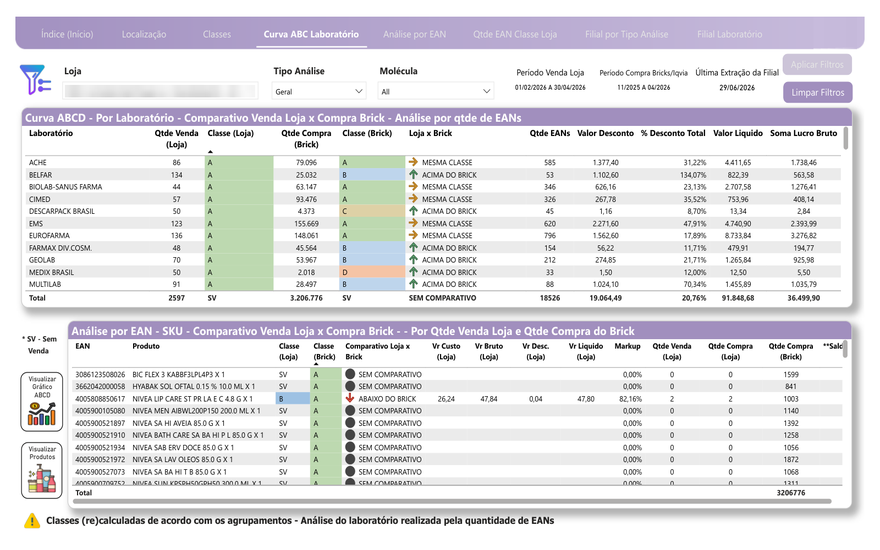
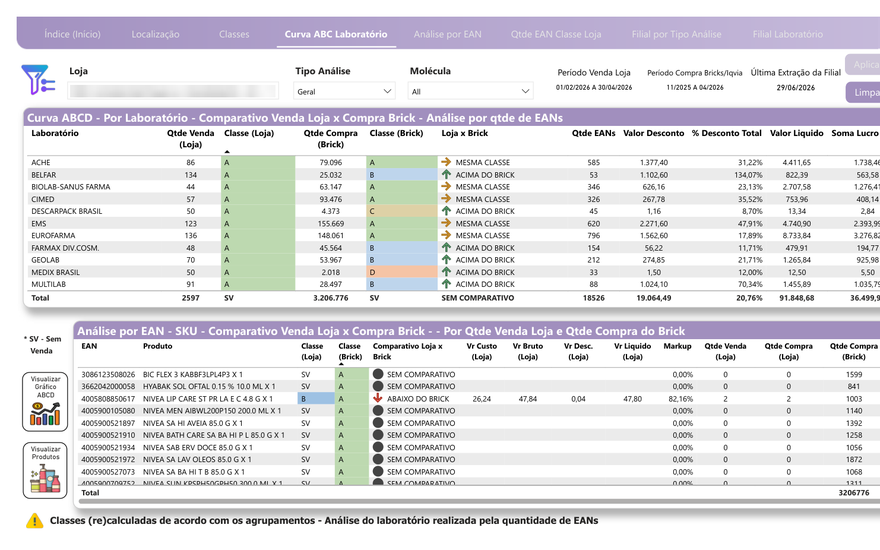
Adiciona o painel de cinco telas e corrige a capa esticada
Projeto novo: a aplicacao que reune cinco paineis Power BI de uma
distribuidora em uma interface so, com navegacao em dois niveis (5 abas
no topo, 24 paginas dentro delas). Seis telas capturadas, incluindo o
mapa de clientes por rota.

A anonimizacao teve de mudar de metodo. Nos outros paineis os nomes eram
conhecidos e estavam numa lista; aqui sao pessoas e clientes que eu nao
tinha como enumerar. Mas a API entrega a semantica junto do dado, e a
regra passou a sair dali:

  - tabela  -> colunas[].key diz o que e cada celula
  - grafico -> o titulo diz o que sao as categorias
  - mapa    -> cada ponto traz detalhes com rotulo
  - filtro  -> o parametro dim= da URL diz o que sao as opcoes

O rotulo tambem sai da semantica: coluna de cliente vira CLIENTE 01, de
vendedor vira VENDEDOR 01. A auditoria pergunta ao backend quais nomes
existem e exige que nenhum apareca na resposta tratada: 89 respostas
conferidas, 0 vazamentos.

Correcao da capa: o corte antigo so mexia na altura e depois esticava
para 16:10. Quando a captura era mais BAIXA que 16:10 -- a tela inicial
do bi-campanha tem 1600x616 -- nao havia o que cortar e a imagem
esticava na vertical no card. Agora o corte e proporcional: sobra
largura, corta largura; sobra altura, corta altura. Todas as sete capas
foram refeitas e conferidas em 1,600 exatos.

diff --git a/src/data/projetos.js b/src/data/projetos.js
@@ -73,6 +73,63 @@ export const projetos = [
   },
 
   {
+    id: 'bi-cinco-paineis',
+    titulo: 'Cinco Painéis em Uma Aplicação',
+    cliente: 'Distribuidora de alimentos',
+    ano: '2026',
+    resumo:
+      'Cinco painéis Power BI de uma distribuidora reunidos em uma única aplicação web, com navegação em dois níveis.',
+    objetivo:
+      'A distribuidora tinha cinco relatórios Power BI separados — Compras, Meta de Pedidos, Pedidos, Venda e Venda por Rota — e a fonte deles ia ser desligada. Em vez de recriar cinco arquivos, virou uma aplicação só: cada painel é uma aba no topo e suas páginas viram botões dentro dela, somando 24 telas. A origem do dado mudou junto, do data warehouse antigo para o ClickHouse, com carga recorrente três vezes ao dia — o que tirou a licença por usuário do caminho e deixou a abertura instantânea.',
+    destaques: [
+      'Navegação em dois níveis: 5 painéis no topo, 24 páginas dentro deles',
+      'Mapa de clientes por rota, com o tamanho do ponto pelo valor vendido',
+      'Carteira com positivação por vendedor, cliente e cidade',
+      'Acompanhamento de meta diária contra o realizado, acumulado no mês',
+      'Filtros em cascata: escolher um grupo reduz a lista de produtos',
+      'Tabelas com busca, ordenação e paginação resolvidas no servidor',
+    ],
+    ferramentas: [
+      'Python',
+      'FastAPI',
+      'ClickHouse',
+      'React',
+      'TypeScript',
+      'Chart.js',
+      'Leaflet',
+    ],
+    capa: '/assets/projetos/cinco-paineis-capa.png',
+    imagens: [
+      {
+        src: '/assets/projetos/cinco-paineis-1.png',
+        legenda:
+          'Vendas por rota: cada ponto é um cliente, dimensionado pelo valor vendido',
+      },
+      {
+        src: '/assets/projetos/cinco-paineis-2.png',
+        legenda:
+          'Carteira de clientes com positivação, por vendedor, cliente e cidade',
+      },
+      {
+        src: '/assets/projetos/cinco-paineis-3.png',
+        legenda: 'Meta diária contra o realizado, com acumulado e desvio no mês',
+      },
+      {
+        src: '/assets/projetos/cinco-paineis-4.png',
+        legenda: 'Pedidos: valores a faturar por vendedor e por situação',
+      },
+      {
+        src: '/assets/projetos/cinco-paineis-5.png',
+        legenda: 'Venda: evolução mensal, participação por grupo e por tipo de cliente',
+      },
+      {
+        src: '/assets/projetos/cinco-paineis-6.png',
+        legenda: 'Análise de produtos: participação e margem por item',
+      },
+    ],
+  },
+
+  {
     id: 'simulacao-de-negociacao',
     titulo: 'Simulação de Negociação',
     cliente: 'Indústria farmacêutica',
